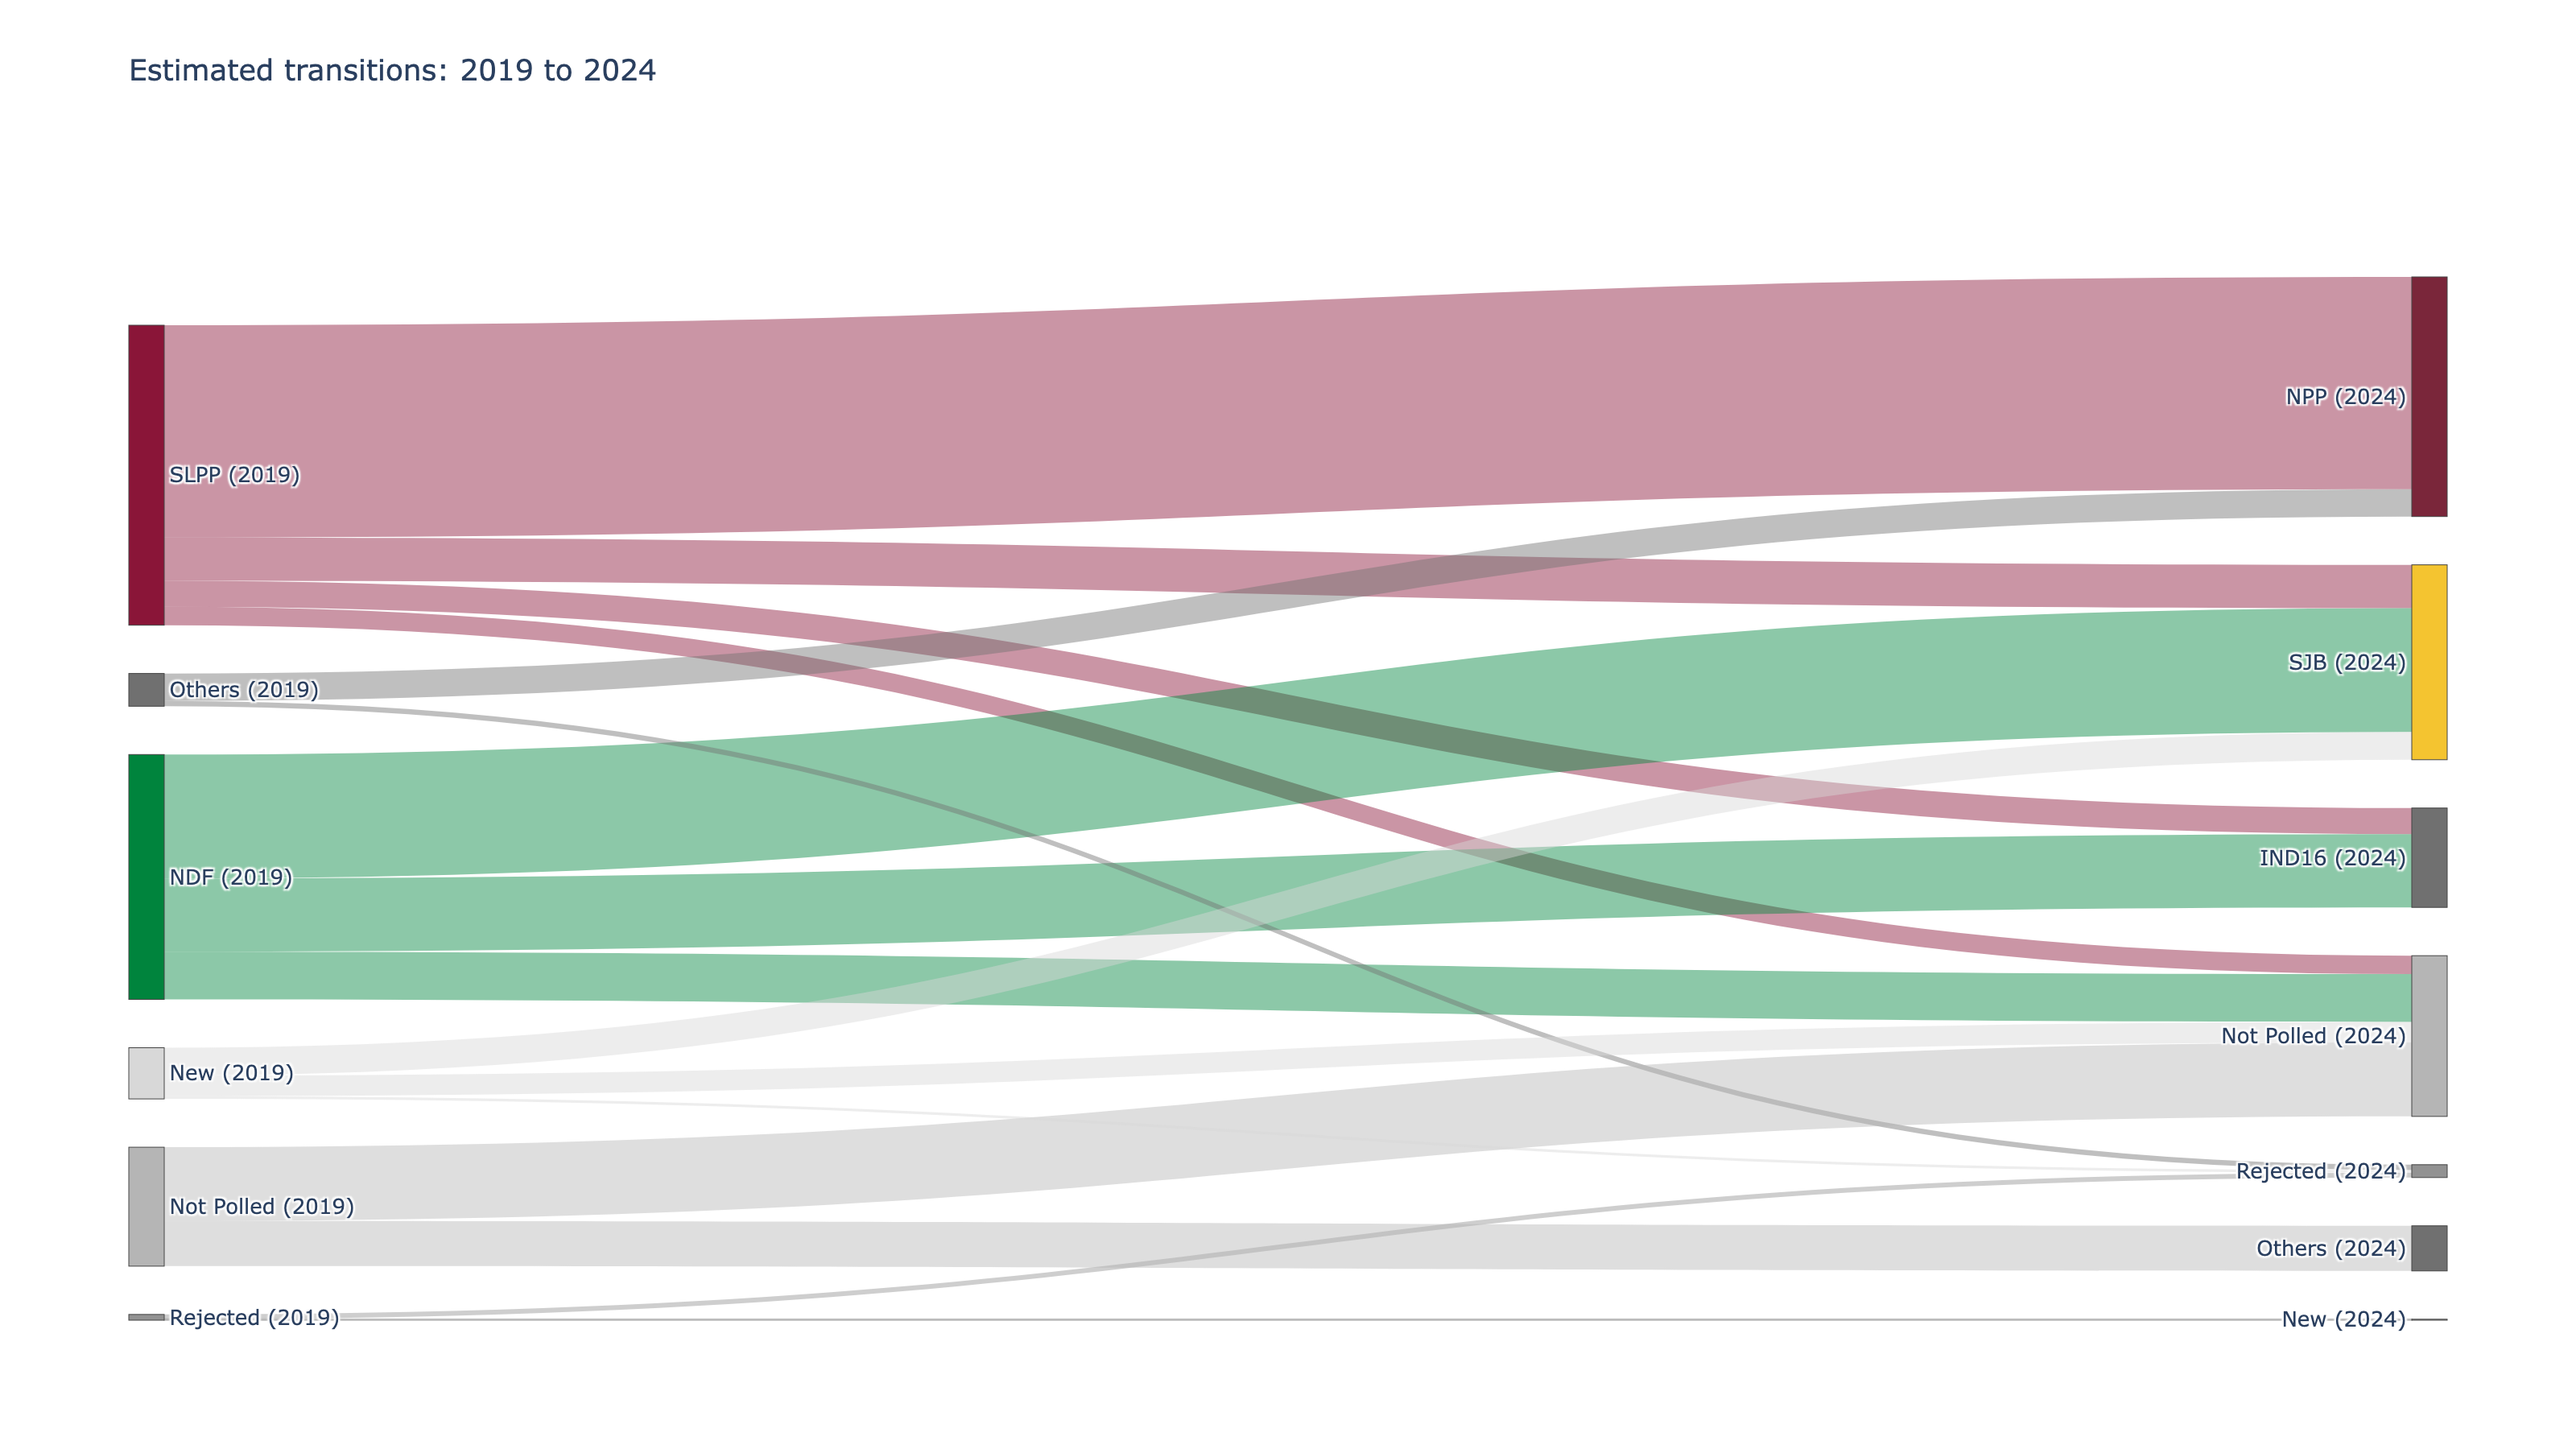
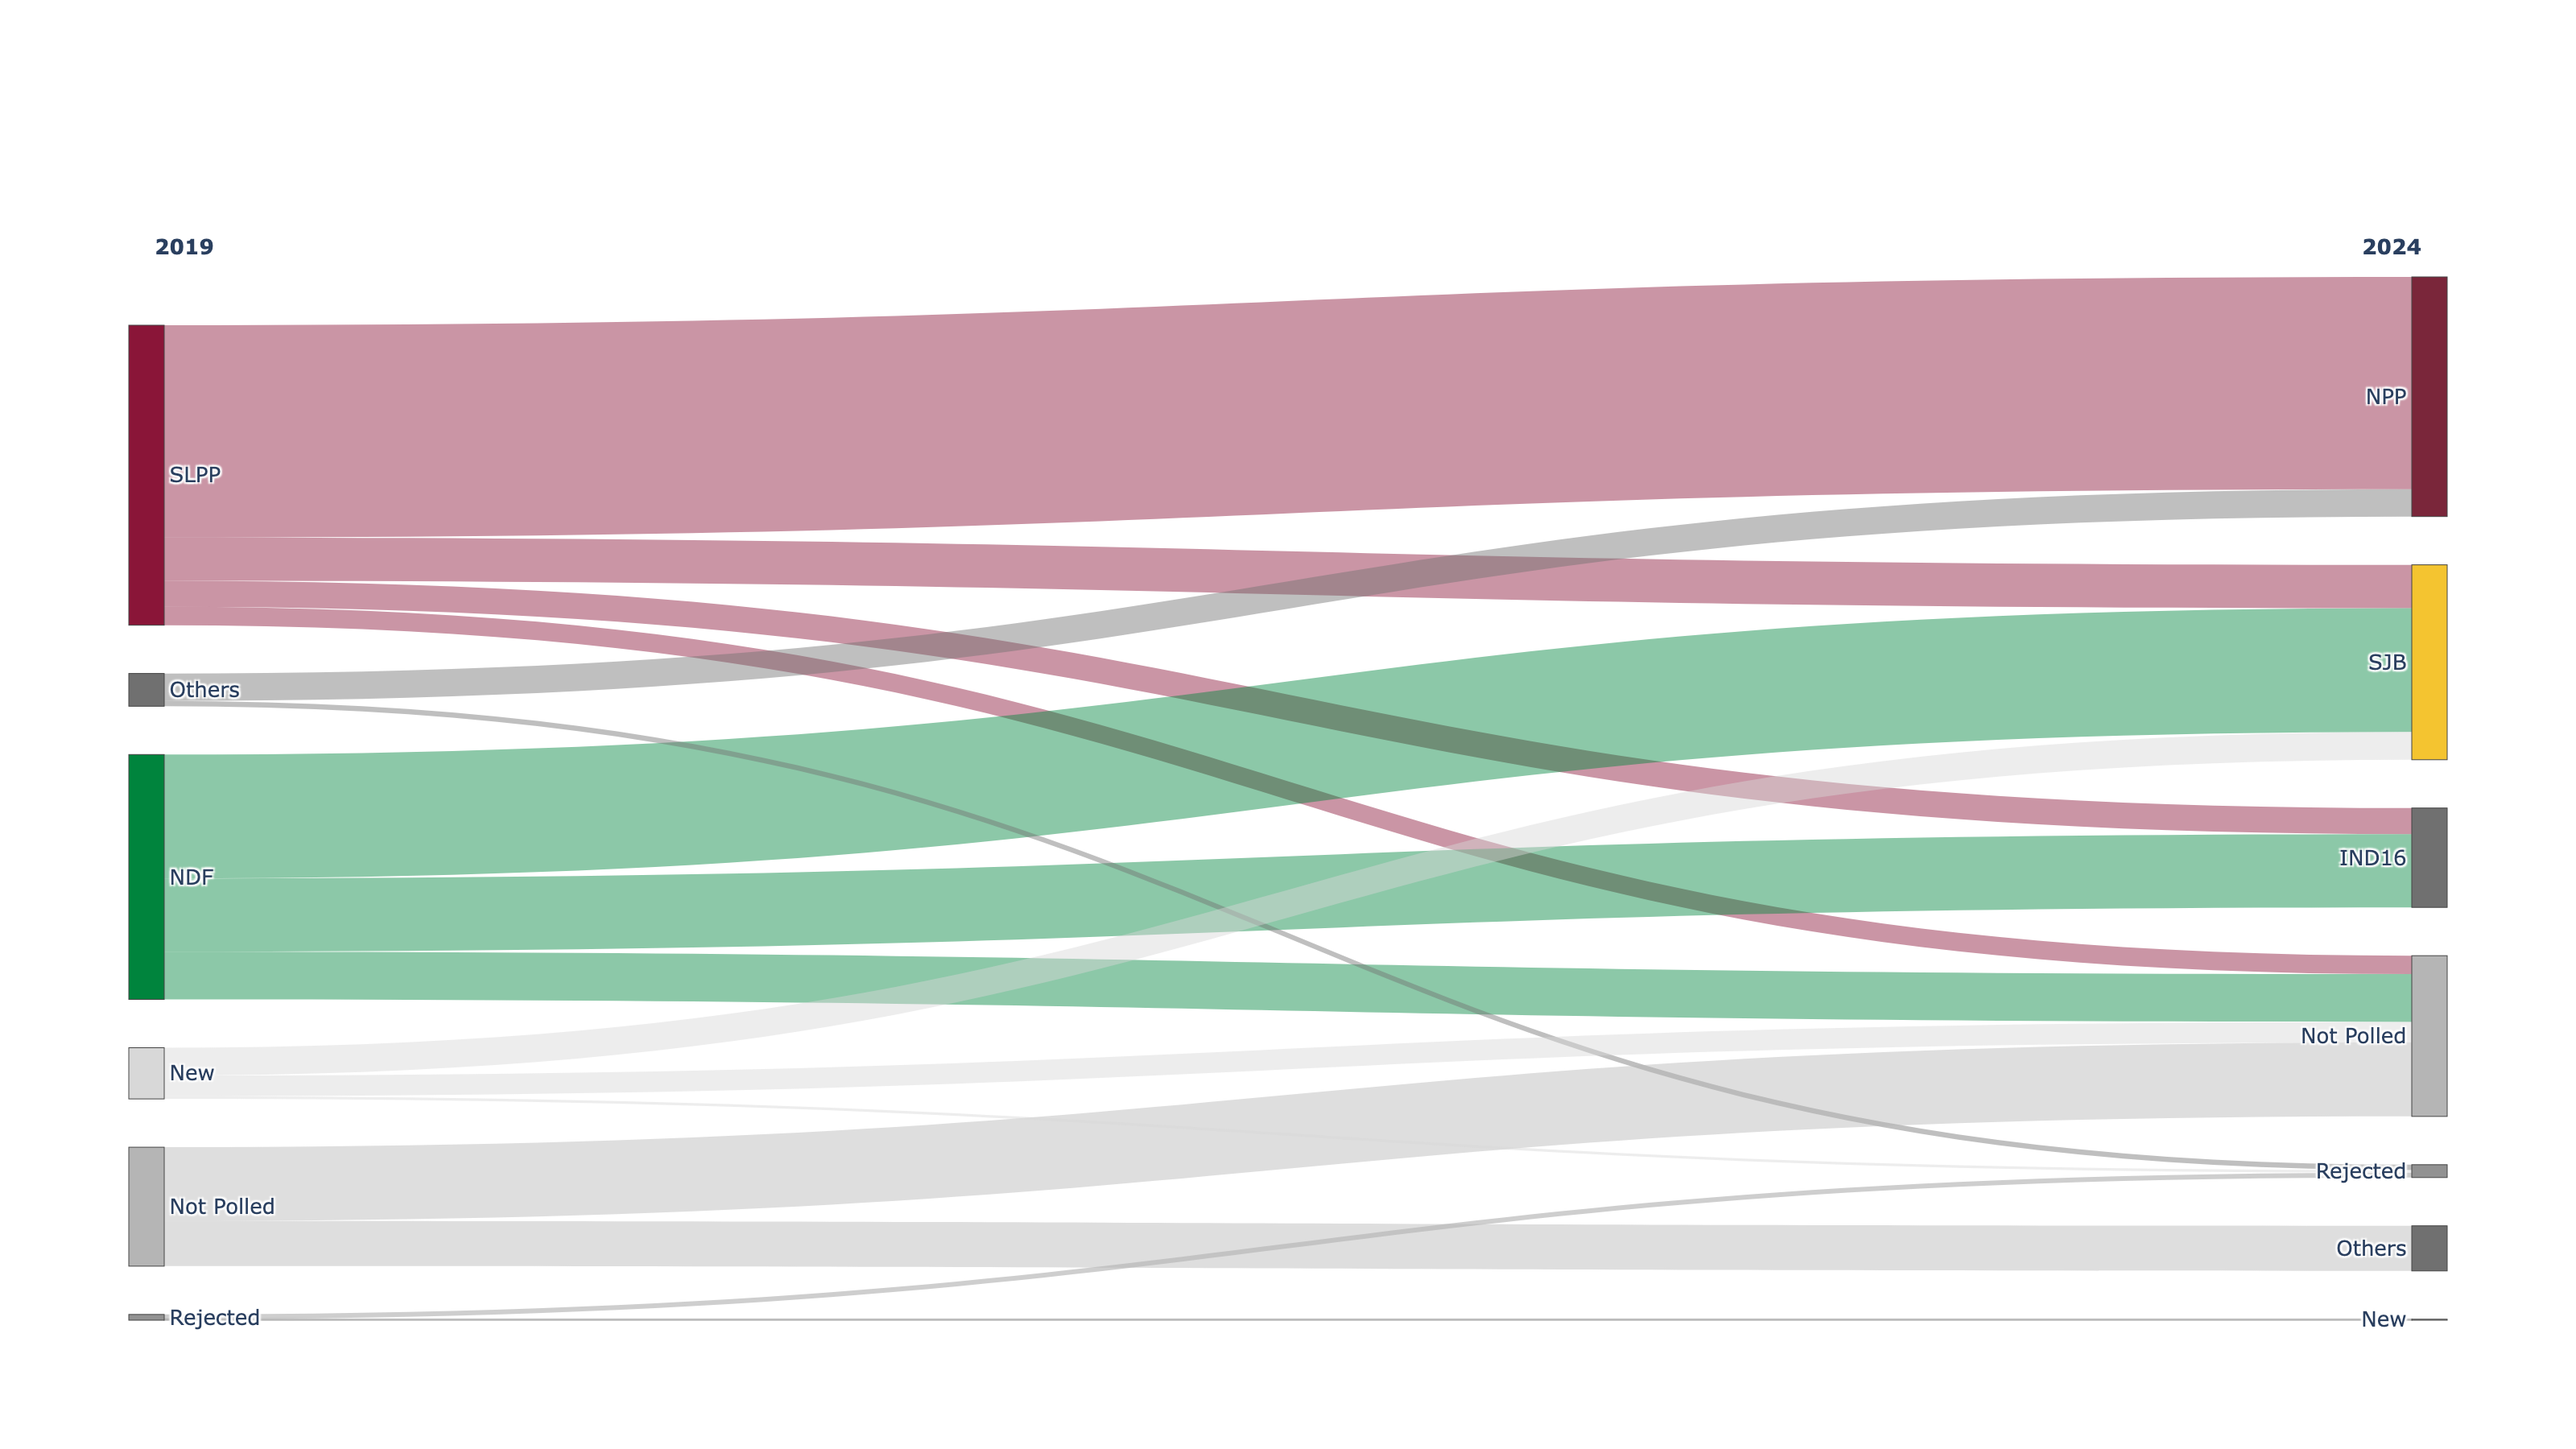
docs: enhance README with detailed case study on Sri Lankan presidential elections and update Sankey diagram annotations

diff --git a/examples/lk-elections/SankeyDiagram.py b/examples/lk-elections/SankeyDiagram.py
@@ -20,31 +20,26 @@ class SankeyDiagram:
         probability_limit=0.05,
     ):
         """Build a Sankey diagram and save it as a PNG image.
-
         Args:
             model: Fitted MarginFlow model.
             source_counts: Starting counts arranged by group and category.
             source_parties: Starting parties and their colors.
             target_parties: Final parties and their colors.
-            source_year: Year shown beside source labels.
-            target_year: Year shown beside target labels.
+            source_year: Year shown above the source nodes.
+            target_year: Year shown above the target nodes.
             output_path: Location of the PNG file to create.
             probability_limit: Smallest transition probability to draw.
-
         Returns:
             Path to the generated PNG file.
         """
         source, target, value, color = cls._links(
             model, source_counts, source_parties, probability_limit
         )
-        node = cls._nodes(
-            source_parties, target_parties, source_year, target_year
-        )
         figure = go.Figure(
             go.Sankey(
                 arrangement="snap",
                 domain={"y": [0.0, 0.9]},
-                node=node,
+                node=cls._nodes(source_parties, target_parties),
                 link={
                     "source": source,
                     "target": target,
@@ -54,7 +49,19 @@ class SankeyDiagram:
             )
         )
         figure.update_layout(
-            title_text=f"Estimated transitions: {source_year} to {target_year}",
+            annotations=[
+                {
+                    "text": f"<b>{year}</b>",
+                    "x": x,
+                    "xanchor": anchor,
+                    "y": 0.94,
+                    "showarrow": False,
+                }
+                for year, x, anchor in (
+                    (source_year, 0.01, "left"),
+                    (target_year, 0.99, "right"),
+                )
+            ],
             width=1600,
             height=max(
                 900, 70 * max(len(source_parties), len(target_parties))
@@ -67,12 +74,10 @@ class SankeyDiagram:
         return path
 
     @staticmethod
-    def _nodes(source_parties, target_parties, source_year, target_year):
+    def _nodes(source_parties, target_parties):
         parties = source_parties + target_parties
-        labels = [f"{party.name} ({source_year})" for party in source_parties]
-        labels += [f"{party.name} ({target_year})" for party in target_parties]
         return {
-            "label": labels,
+            "label": [party.name for party in parties],
             "color": [party.color for party in parties],
             "x": [0.01] * len(source_parties) + [0.99] * len(target_parties),
             "pad": 30,

diff --git a/README.md b/README.md
@@ -151,12 +151,59 @@ true; it does not prove those assumptions for real populations.
 
 ## Case study: Sri Lankan presidential elections
 
+Sri Lanka has no nationwide exit polls linking voters' previous and current
+choices. Official results therefore show where each election ended, but not
+how support moved between parties. MarginFlow uses polling-division totals to
+estimate those otherwise unobserved movements while keeping estimates distinct
+from observed voter histories.
+
 The election example compares polling-division totals from 2019 and 2024.
 Parties with at least 5% of the national vote remain separate; smaller parties
 are combined as `Others`. `Rejected`, `Not Polled`, and `New` categories keep
 the population totals comparable between elections.
 
 ![Estimated voter transitions from 2019 to 2024](examples/lk-elections/transition-sankey-2019-to-2024.png)
+
+The full inputs contain one row for each of 160 polling divisions. Their
+national aggregate matrices are shown here to keep the case study readable.
+The columns of $X_\Sigma$ and rows of $\widehat P$ are `SLPP`, `NDF`, `Others`,
+`Rejected`, `Not Polled`, and `New`:
+
+$$
+X_\Sigma=\sum_g X_{g\cdot}
+=\begin{bmatrix}
+6{,}548{,}292 & 5{,}345{,}907 & 716{,}660 & 125{,}956 &
+2{,}596{,}522 & 1{,}117{,}517
+\end{bmatrix}.
+$$
+
+The columns of $\widehat P$ and $Y_\Sigma$ are `NPP`, `SJB`, `IND16`,
+`Others`, `Rejected`, `Not Polled`, and `New`:
+
+$$
+\widehat P=
+\begin{bmatrix}
+0.707565 & 0.144178 & 0.087003 & 0       & 0        & 0.061254 & 0 \\
+0        & 0.505645 & 0.299144 & 0.000001& 0        & 0.195209 & 0 \\
+0.833758 & 0.000001 & 0.001678 & 0.000009& 0.163806 & 0.000745 & 0.000002 \\
+0.000007 & 0.000153 & 0.000398 & 0.002756& 0.824003 & 0.000404 & 0.172279 \\
+0        & 0        & 0.000001 & 0.379049& 0        & 0.620950 & 0 \\
+0.000027 & 0.543568 & 0.000003 & 0.000003& 0.052496 & 0.403903 & 0
+\end{bmatrix}.
+$$
+
+$$
+Y_\Sigma=\sum_g Y_{g\cdot}
+=\begin{bmatrix}
+5{,}245{,}118 & 4{,}234{,}428 & 2{,}160{,}368 & 992{,}089 &
+283{,}792 & 3{,}512{,}252 & 22{,}807
+\end{bmatrix}.
+$$
+
+Each Sankey link uses the raw estimated count
+$\widehat F_{ij}=X_{\Sigma,i}\widehat P_{ij}$. For example, the SLPP-to-NPP
+link represents $6{,}548{,}292\times0.707565\approx4{,}633{,}344$ people. The
+diagram shows only links with $\widehat P_{ij}\geq0.05$.
 
 The fitted model estimates that 70.8% of the 2019 SLPP-associated population
 moved to NPP in 2024, while 14.4% moved to SJB and 8.7% to the independent
